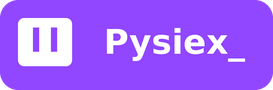
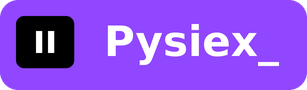
Dopracuj plakietkę Twitch wg referencji użytkownika
Czarny kwadrat ikony z białym glifem (zamiast białego kwadratu z
fioletowymi paskami), większy tekst, pozycja przesunięta między
maskotkę a streamera zamiast pod napis LED.

Claude-Session: https://claude.ai/code/session_012xVb3ffFX71LMiMojSTq9N

diff --git a/montaz-tiktok-shorty-z-gry/scripts/make_twitch_badge.py b/montaz-tiktok-shorty-z-gry/scripts/make_twitch_badge.py
@@ -17,7 +17,7 @@ def build_badge(nick: str, scale: int = 4) -> Image.Image:
     h = 90 * scale
     icon_size = h
     pad = 14 * scale
-    font = ImageFont.truetype(FONT_PATH, 34 * scale)
+    font = ImageFont.truetype(FONT_PATH, 42 * scale)
 
     tmp = Image.new("RGBA", (10, 10))
     draw = ImageDraw.Draw(tmp)
@@ -31,16 +31,18 @@ def build_badge(nick: str, scale: int = 4) -> Image.Image:
     radius = 18 * scale
     draw.rounded_rectangle([0, 0, width - 1, h - 1], radius=radius, fill=TWITCH_PURPLE)
 
-    icon_pad = 18 * scale
+    # Ikona: czarny zaokrąglony kwadrat z białym glifem Twitcha (dymek czatu
+    # z dwoma pionowymi paskami) w środku - odwzorowanie referencyjnej plakietki.
+    icon_pad = 16 * scale
     bx0, by0 = icon_pad, icon_pad
     bx1, by1 = icon_size - icon_pad, h - icon_pad - 6 * scale
-    draw.rounded_rectangle([bx0, by0, bx1, by1], radius=6 * scale, fill=(255, 255, 255, 255))
-    bar_w = 6 * scale
-    bar_h = (by1 - by0) * 0.5
-    bar_y0 = by0 + (by1 - by0) * 0.2
+    draw.rounded_rectangle([bx0, by0, bx1, by1], radius=8 * scale, fill=(0, 0, 0, 255))
+    bar_w = 5 * scale
+    bar_h = (by1 - by0) * 0.42
+    bar_y0 = by0 + (by1 - by0) * 0.29
     cx = (bx0 + bx1) / 2
-    draw.rectangle([cx - bar_w * 2, bar_y0, cx - bar_w, bar_y0 + bar_h], fill=TWITCH_PURPLE)
-    draw.rectangle([cx + bar_w, bar_y0, cx + bar_w * 2, bar_y0 + bar_h], fill=TWITCH_PURPLE)
+    draw.rectangle([cx - bar_w * 1.8, bar_y0, cx - bar_w * 0.6, bar_y0 + bar_h], fill=(255, 255, 255, 255))
+    draw.rectangle([cx + bar_w * 0.6, bar_y0, cx + bar_w * 1.8, bar_y0 + bar_h], fill=(255, 255, 255, 255))
 
     text_x = icon_size + pad
     text_y = (h - (text_bbox[3] - text_bbox[1])) / 2 - text_bbox[1]
